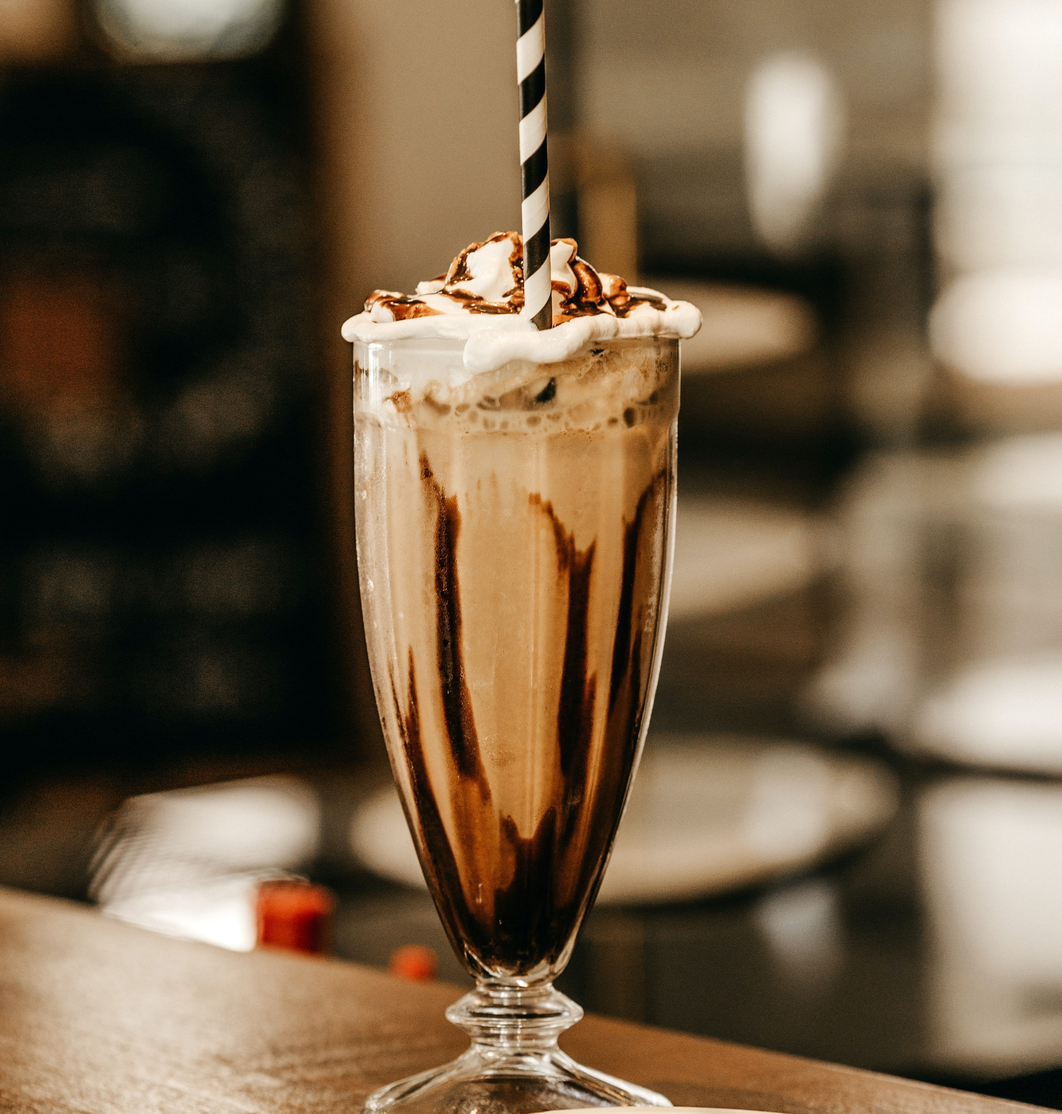
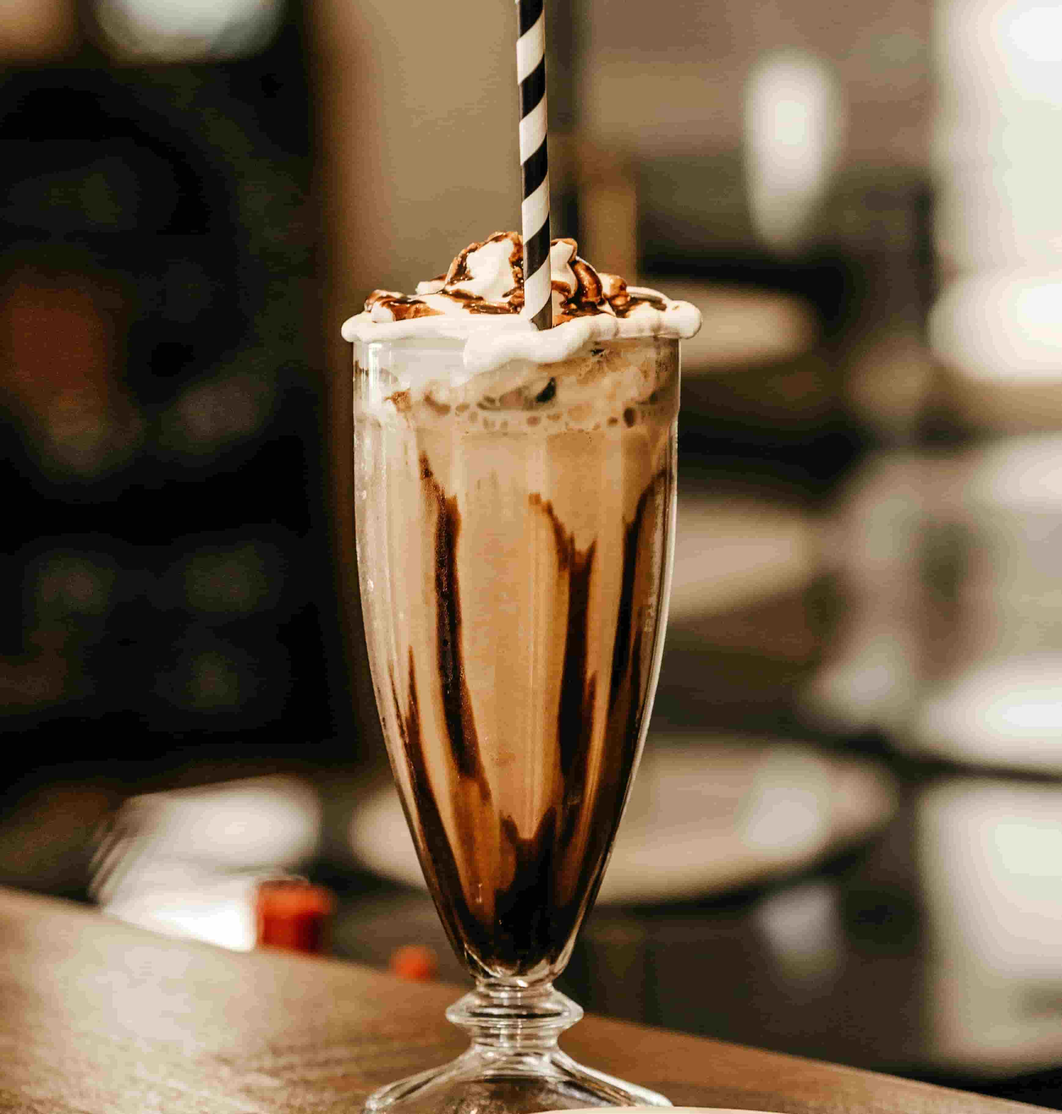
optimize photo im modals

diff --git a/src/partials/modals.html b/src/partials/modals.html
@@ -371,12 +371,15 @@
   </button>
   <p class="modal-title modal-product-title">Orange ice-coffee</p>
   <div class="product-foto-container orang-coffee">
-    <img
-      class="product-foto"
-      src="./images/modals/orang-coffee.jpg"
-      alt="foto ice-cream"
-      width="132"
-    />
+    <picture class="product-foto">
+      <source type="image/webp" srcset="./images/modals/orang-coffee.webp 1x" />
+      <source type="image/jpeg" srcset="./images/modals/orang-coffee.jpg 1x" />
+      <img
+        src="./images/modals/modal-photo.jpg"
+        alt="orange ice-coffee"
+        width="132"
+      />
+    </picture>
   </div>
   <ul class="list-value">
     <li class="value-item orang-coffee">
@@ -435,12 +438,11 @@
   </button>
   <p class="modal-title modal-product-title">Milkshake Oreo</p>
   <div class="product-foto-container milkshake-oreo">
-    <img
-      class="product-foto"
-      src="./images/modals/milkshake.jpg"
-      alt="foto ice-cream"
-      width="132"
-    />
+    <picture class="product-foto">
+      <source type="image/webp" srcset="./images/modals/milkshake.webp 1x" />
+      <source type="image/jpeg" srcset="./images/modals/milkshake.jpg 1x" />
+      <img src="./images/modals/modal-photo.jpg" alt=" milkshake" width="132" />
+    </picture>
   </div>
   <ul class="list-value">
     <li class="value-item milkshake-oreo">
